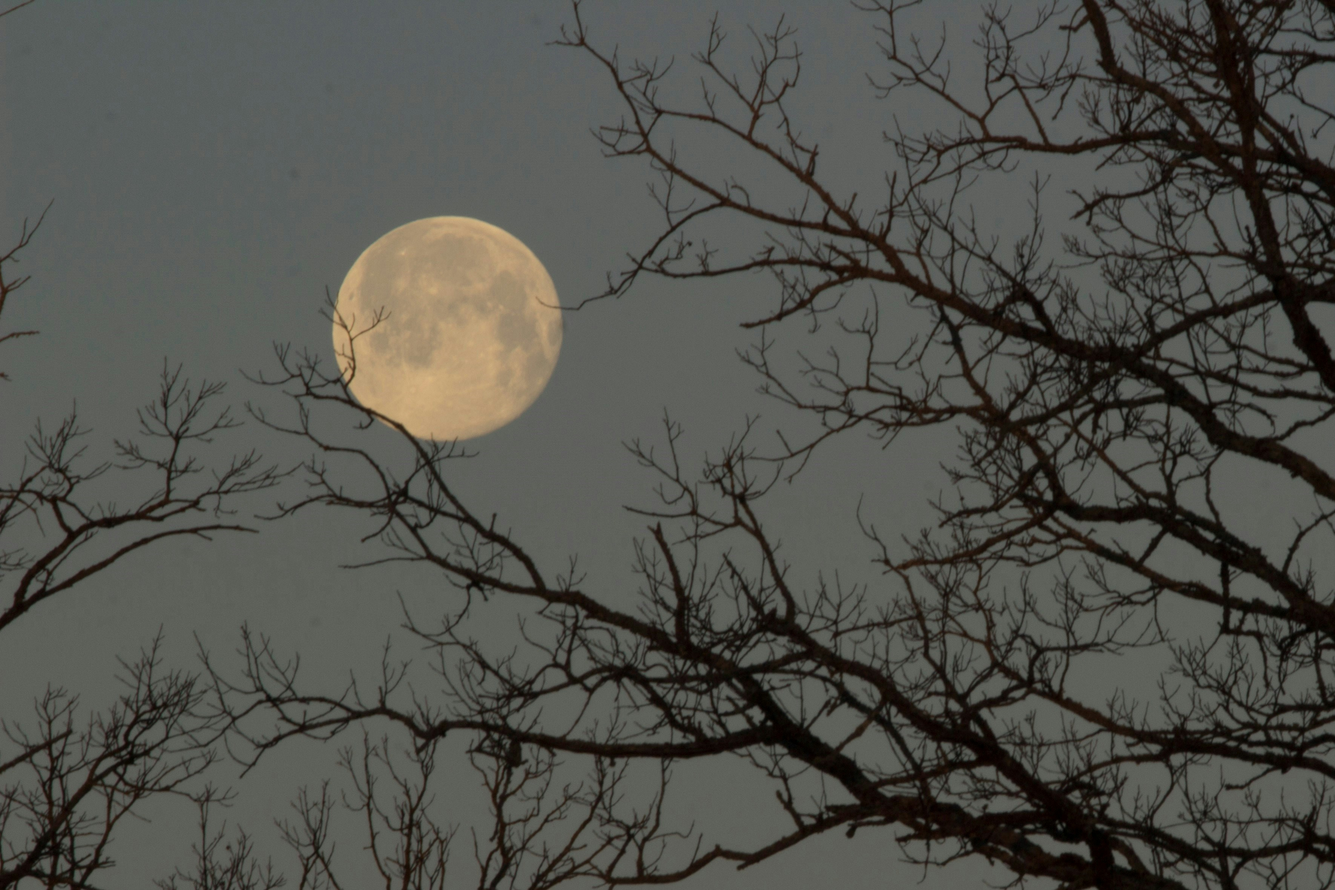
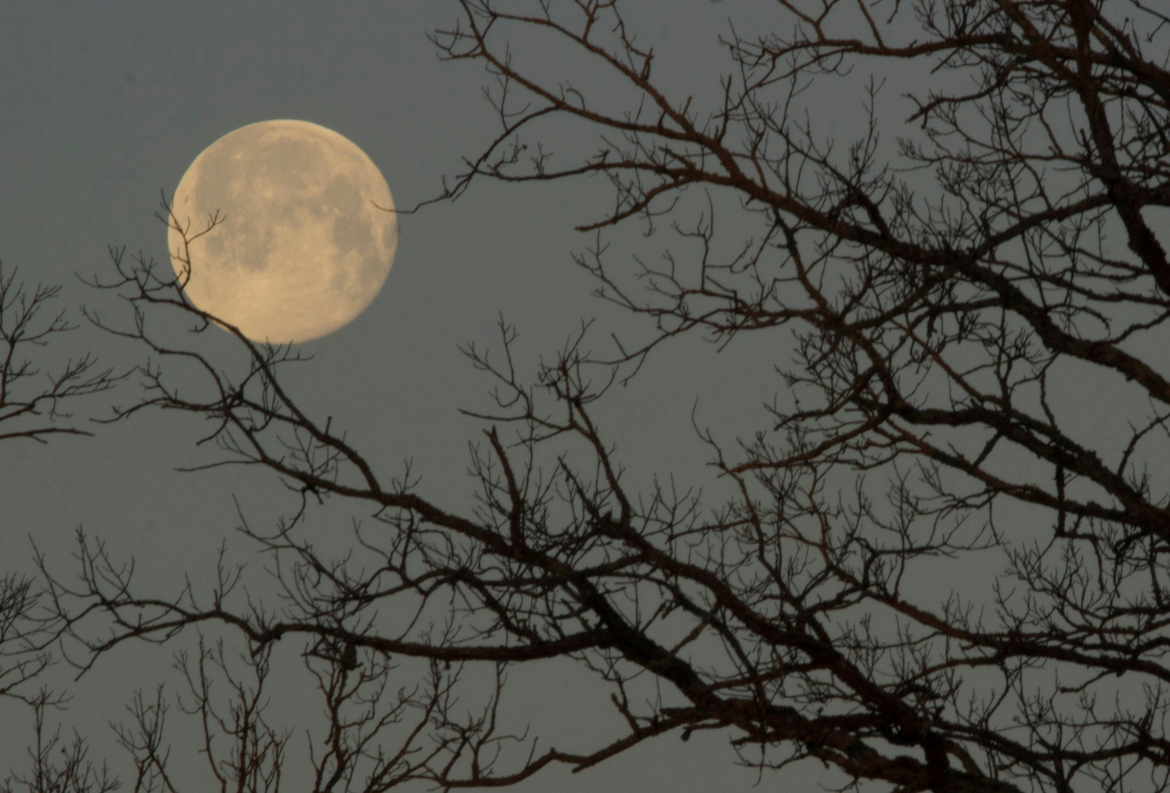
Moon Journal: Worm Moon gets light overlay background from worm.jpg

diff --git a/digital-products/Moon-Journal/moon-journal.html b/digital-products/Moon-Journal/moon-journal.html
@@ -261,7 +261,7 @@
 
 <!-- ===== SPRING ===== -->
 <!-- WORM MOON -->
-<div class="page prose-page moon-page">
+<div class="page prose-page moon-page" style="background:linear-gradient(rgba(255,255,255,0.50),rgba(255,255,255,0.50)),url('worm.jpg');background-size:cover;background-position:center;">
   <div class="moon-header"><div class="moon-name">🪱 Worm Moon</div><div class="moon-month">March</div></div>
   <div class="moon-body">
     <div class="moon-text">
